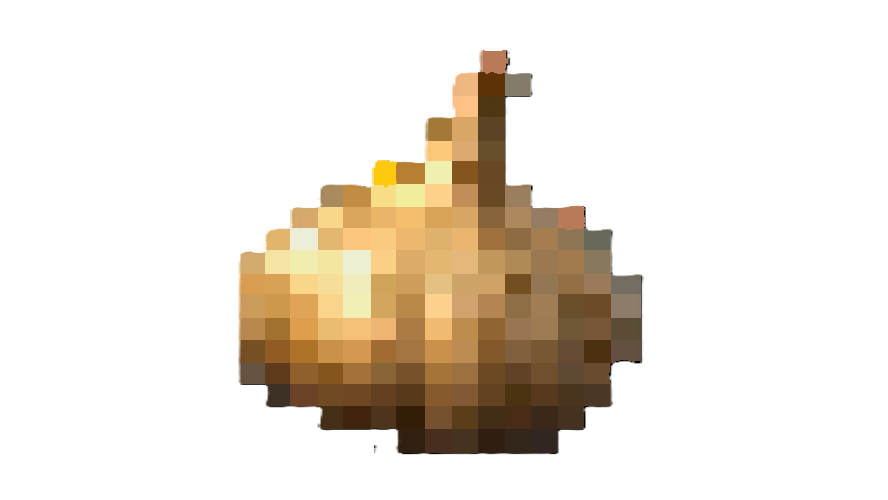
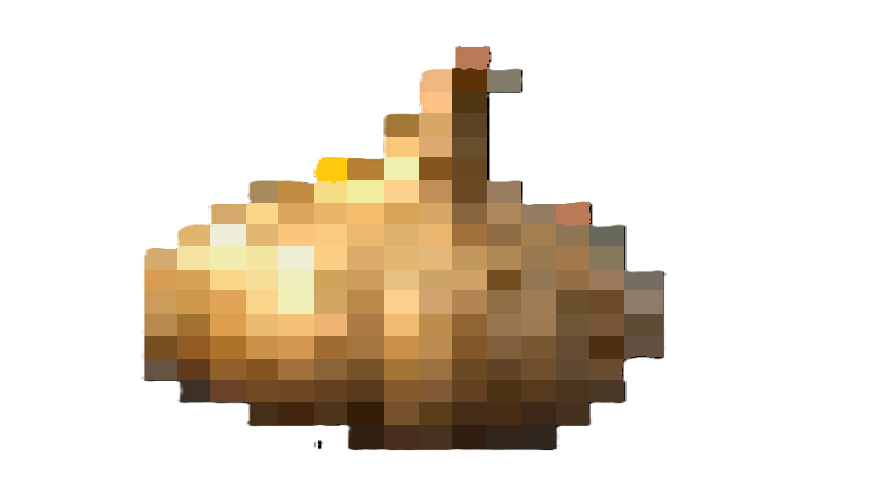
bawang

Changed region(s): [[0.152, 0.09, 0.7601, 0.93], [0.6081, 0.75, 0.6385, 0.81]]

diff --git a/my-game/main.cpp b/my-game/main.cpp
@@ -1333,7 +1333,7 @@ int main()
                 if (it.type == BANDAGE)
                     DrawTexturePro(potionBandageTex, {0, 0, (float)potionBandageTex.width, (float)potionBandageTex.height}, {it.rect}, {0, 0}, 0.0f, col);
                 if (it.type == GARLIC)
-                    DrawTexturePro(garlic1Tex, {0, 0, (float)garlic1Tex.width, (float)garlic1Tex.height}, {it.rect}, {0, 0}, 0.0f, col);
+                    DrawTexturePro(garlic1Tex, {0, 0, (float)garlic1Tex.width, (float)garlic1Tex.height}, {it.rect.x, it.rect.y, garlic1Tex.width * 0.15f, garlic1Tex.height * 0.15f}, {0, 0}, 0.0f, col);
                 if (it.type == CHILI)
                     DrawTexturePro(chiliTex, {0, 0, (float)chiliTex.width, (float)chiliTex.height}, {it.rect.x, it.rect.y, chiliTex.width * 0.15f, chiliTex.height * 0.15f}, {0, 0}, 0.0f, col);
                 if (it.type == TROLLFACE)
